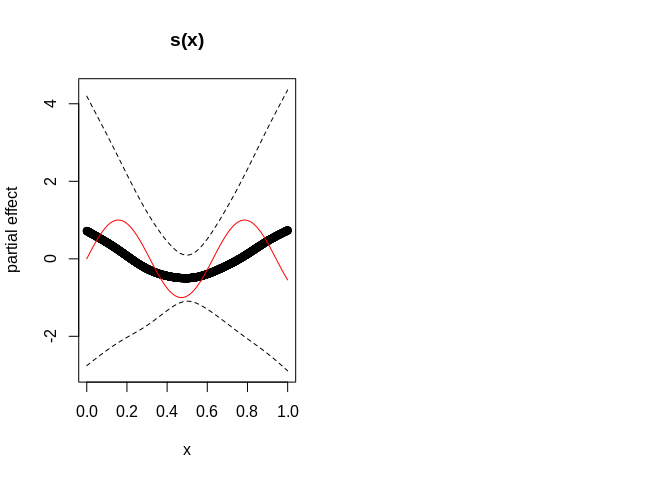
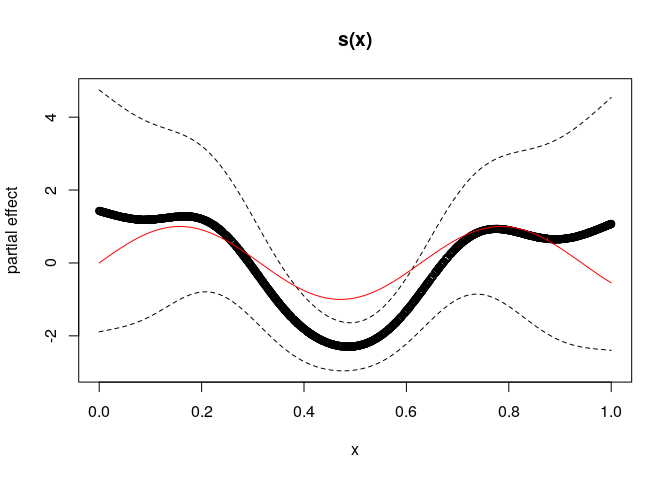
update rmd

diff --git a/README.md b/README.md
@@ -8,17 +8,13 @@ Fitting Semistructured Deep Distributional Models in R
 Since the repository is still private, clone the repository to your
 local machine and run the following
 
-``` r
-library(devtools)
-```
-
     ## Loading required package: usethis
 
-``` r
-load_all("R")
-```
-
     ## Loading deepregression
+
+    ## 
+
+    ## Done!
 
     ## 
     ## Attaching package: 'testthat'
@@ -26,6 +22,10 @@ load_all("R")
     ## The following object is masked from 'package:devtools':
     ## 
     ##     test_file
+
+    ## Configuring package 'deepregression': please wait ...
+
+    ## Done!
 
 Also make sure you have installed all the dependencies:
 
@@ -66,6 +66,8 @@ install_github("davidruegamer/deepregression")
     1.  [MNIST Pictures with Binarized Response](#mnist-zeros)
     2.  [MNIST Pictures with Multinomial Response](#mnist-multinomial)
     3.  [Sentiment Analysis using IMDB Reviews](#text-as-input)
+9.  [Zero-inflated Poisson
+    Distribution](#zero-inflated-poisson-distribution)
 
 ## Deep Additive Regression
 
@@ -125,15 +127,19 @@ mod <- deepregression(
 mod %>% fit(epochs=1000, verbose = FALSE, view_metrics = FALSE)
 # predict
 mean <- mod %>% fitted()
-true_mean <- true_mean_fun(x)
+true_mean <- true_mean_fun(x) - b0
 
 # compare means
-plot(true_mean ~ x, ylab="partial effect")
+plot(true_mean + b0 ~ x, ylab="partial effect")
 points(c(as.matrix(mean)) ~ x, col = "red")
 legend("bottomright", col=1:2, pch = 1, legend=c("true mean", "deep prediction"))
 ```
 
 ![](README_files/figure-gfm/unnamed-chunk-3-1.png)<!-- -->
+
+This is just for demonstration that a neural network can also capture
+non-linearities, but often requires a lot of effort to get proper smooth
+estimates.
 
 ## Deep GAM
 
@@ -283,27 +289,28 @@ mod <- deepregression(
   family = "bernoulli",
   validation_split = NULL,
   variational = TRUE,
+  df = 10
 )
-cvres <- mod %>% cv(cv_folds = 5, epochs=200)
+cvres <- mod %>% cv(cv_folds = 5, epochs=500)
 ```
 
     ## Fitting Fold  1  ... 
-    ## Done in 23.99185  secs 
+    ## Done in 45.24328  secs 
     ## Fitting Fold  2  ... 
-    ## Done in 22.7258  secs 
+    ## Done in 43.29304  secs 
     ## Fitting Fold  3  ... 
-    ## Done in 22.40189  secs 
+    ## Done in 43.59649  secs 
     ## Fitting Fold  4  ... 
-    ## Done in 22.64071  secs 
+    ## Done in 44.08932  secs 
     ## Fitting Fold  5  ... 
-    ## Done in 25.60842  secs
+    ## Done in 51.90815  secs
 
 ![](README_files/figure-gfm/unnamed-chunk-7-1.png)<!-- -->
 
 ``` r
 bestiter <- stop_iter_cv_result(cvres)
 # fit model
-mod %>% fit(epochs=bestiter, verbose = FALSE, view_metrics = FALSE)
+mod %>% fit(epochs=10000, verbose = FALSE, view_metrics = FALSE)
 # plot model
 mod %>% plot(use_posterior=TRUE)
 points(sin(10*(sort(x))) ~ sort(x), col = "red", type="l", ylim=c(0,1))
@@ -980,15 +987,15 @@ cvres <- mod %>% cv(epochs = 500, cv_folds = 5)
 ```
 
     ## Fitting Fold  1  ... 
-    ## Done in 28.86721  secs 
+    ## Done in 25.24153  secs 
     ## Fitting Fold  2  ... 
-    ## Done in 27.3825  secs 
+    ## Done in 23.01146  secs 
     ## Fitting Fold  3  ... 
-    ## Done in 27.53193  secs 
+    ## Done in 22.45995  secs 
     ## Fitting Fold  4  ... 
-    ## Done in 28.02738  secs 
+    ## Done in 22.52778  secs 
     ## Fitting Fold  5  ... 
-    ## Done in 27.25356  secs
+    ## Done in 22.84135  secs
 
 ![](README_files/figure-gfm/unnamed-chunk-14-1.png)<!-- -->
 
@@ -999,19 +1006,19 @@ coefinput <- unlist(mod$model$get_weights())
 (means <- coefinput[c(2:4)])
 ```
 
-    ## [1] -0.9045686 -0.4470975  1.2735463
+    ## [1] -0.8807158  1.3250959 -0.1820126
 
 ``` r
 (stds <- exp(coefinput[c(5:7)]))
 ```
 
-    ## [1] 0.2065582 0.5718664 0.4250811
+    ## [1] 0.2337661 0.3969661 0.7143496
 
 ``` r
 (pis <- softmax(coefinput[8:10]*coefinput[1]))
 ```
 
-    ## [1] 0.3258473 0.3298024 0.3443503
+    ## [1] 0.4059310 0.3063351 0.2877339
 
 ``` r
 library(distr)
@@ -1215,3 +1222,67 @@ boxplot(pred ~ y_test,  ylab="Predicted Probability", xlab = "True Label")
 ```
 
 ![](README_files/figure-gfm/unnamed-chunk-18-1.png)<!-- -->
+
+## Zero-inflated Poisson Distribution
+
+An example how to fit an access the ZIP distribution. We first create
+data and add some dummy covariates.
+
+``` r
+# create data
+n <- 5000
+prob = 0.3
+lambda = 2
+  
+bino <- rbinom(n, size = 1, prob = prob)
+y <- 0 * bino + (1-bino) * rpois(n, lambda)
+data = data.frame(y=y, x = rnorm(n))
+```
+
+Now we fit the distribution and access the fitted parameters
+
+``` r
+mod <- deepregression(y, 
+                      list_of_formulae = list(rate = ~ 1 + x, 
+                                              prob = ~1),
+                      data = data,
+                      list_of_deep_models = NULL, 
+                      family = "zip")
+# fit the model
+mod %>% fit(epochs = 50, view_metrics=FALSE)
+
+# get distribution
+mydist <- mod %>% get_distribution(data = data)
+
+# rate for Poisson
+mydist$components[[1]]$rate
+```
+
+    ## tf.Tensor(
+    ## [[1.9182708]
+    ##  [1.9782604]
+    ##  [2.000047 ]
+    ##  ...
+    ##  [2.0756662]
+    ##  [1.9315189]
+    ##  [1.9416286]], shape=(5000, 1), dtype=float32)
+
+``` r
+# probability for inflation / non-inflation
+mydist$cat$probs
+```
+
+    ## tf.Tensor(
+    ## [[[0.6805297 0.3194703]]
+    ## 
+    ##  [[0.6805297 0.3194703]]
+    ## 
+    ##  [[0.6805297 0.3194703]]
+    ## 
+    ##  ...
+    ## 
+    ##  [[0.6805297 0.3194703]]
+    ## 
+    ##  [[0.6805297 0.3194703]]
+    ## 
+    ##  [[0.6805297 0.3194703]]], shape=(5000, 1, 2), dtype=float32)
